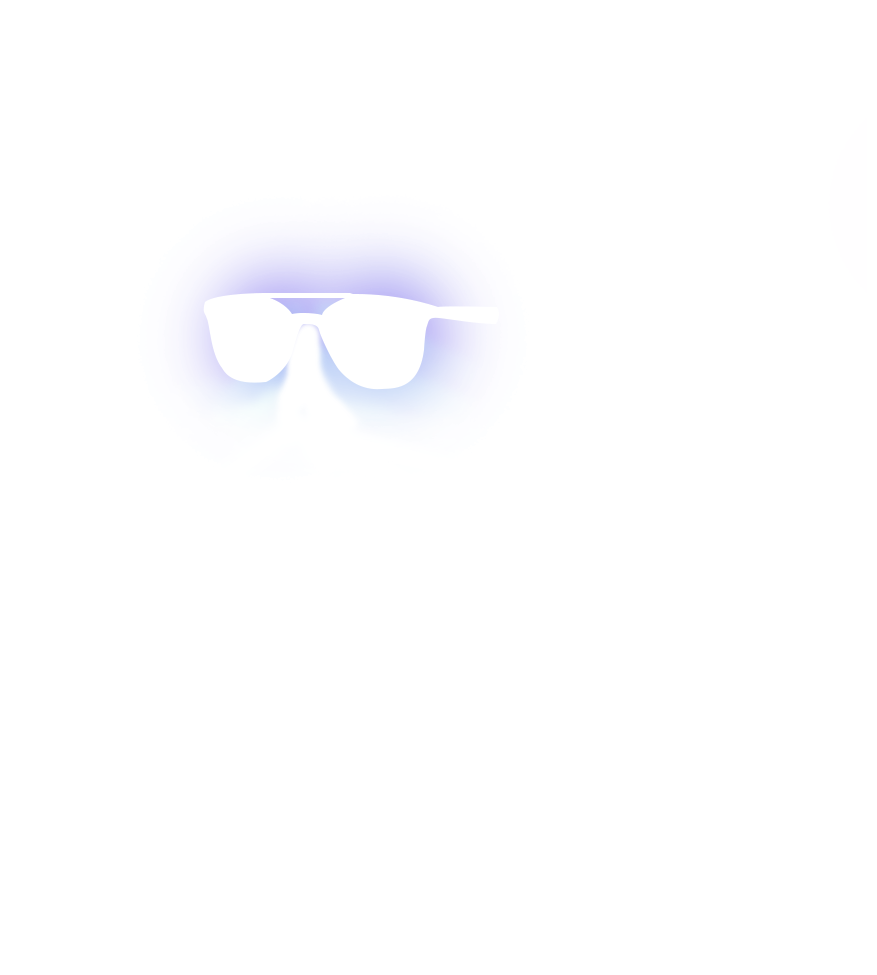
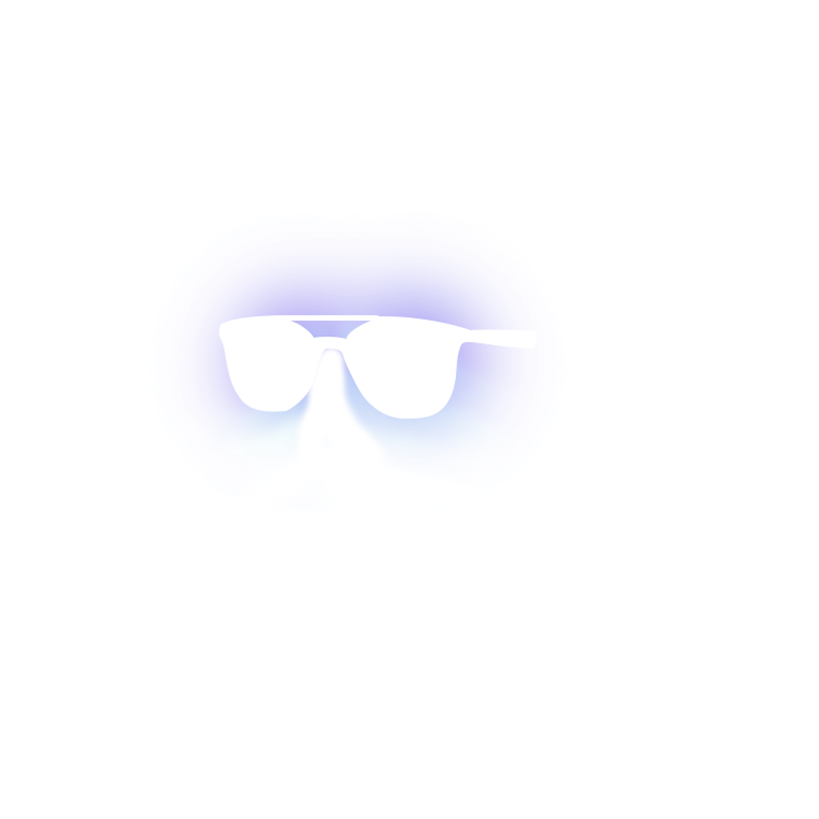
fixed horizontal align

Changed region(s): [[0.2442, 0.2442, 0.6105, 0.5495], [0.2442, 0.4274, 0.3968, 0.5495], [0.2137, 0.3358, 0.2442, 0.3663]]

diff --git a/style.css b/style.css
@@ -3,13 +3,12 @@ body {
   font-family: 'Roboto Slab', serif;
   margin: 50px;
   color: #494953;
-  background-color: #c8c8c8;
-  position: relative;
+  background-color: #FCFBFF;
 }
 
 .content{
-  max-width: 500px;
-  margin: 0 auto;
+  max-width: 650px;
+  margin: 50px auto;
 }
 
 /*Text*/
@@ -25,7 +24,7 @@ a:hover{
 h1 {
   text-transform: uppercase;
   font-weight: 400;
-  font-size: 32px;
+  font-size: 28px;
   color: #604FDD;
   margin-bottom: 20px;
   line-height: 40px;
@@ -33,14 +32,39 @@ h1 {
 
 li, p {
   font-weight: 100;
-  font-size: 18px;
-  line-height: 26px;
+  font-size: 16px;
+  line-height: 30px;
 }
 
 /*BODY ELEMENTS STYLE*/
 /*background image & animation*/
+
 .bg {
-  display: none;
+  position: relative;
+  margin: 0 auto;
+  width: 180px;
+  height: 180px;
+}
+
+.image {
+    position: absolute;
+    width: 180px;
+    height: 180px;
+}
+
+.front {
+  animation: pulse 3s infinite ease-in-out;
+  opacity: 1;
+}
+
+.back {
+  z-index: -1000;
+}
+
+@keyframes pulse {
+  0% { opacity: 0.2; }
+  50% { opacity: 1; }
+  100% { opacity: 0.2; }
 }
 
 
@@ -63,4 +87,19 @@ li, p {
   transition: 0.2s;
 }
 
-/* SCREENS*/
+/*AVATAR*/
+
+
+/* BREAKPOINTS*/
+@media only screen and (min-width: 768px) {
+    /* tablets and desktop */
+
+}
+
+@media only screen and (max-width: 767px) {
+    /* phones */
+}
+
+@media only screen and (max-width: 767px) and (orientation: portrait) {
+    /* portrait phones */
+}

diff --git a/index.html b/index.html
@@ -28,18 +28,20 @@
 <meta name="og:image" content="https://dl.dropboxusercontent.com/u/1353260/161230_fb_og_img_001.jpg">
 <meta property="og:description" content="👋 Hey! If you're looking for a UI/UX designer, then you at the right place. Check my portfolio and ping me if you would like to cooperate with me." />
 
-
   <!--dev tool
   <meta http-equiv="refresh" content="200">
   -->
 
 </head>
-
 <body>
-  <!--background images-->
+  <!--avatar images-->
+  <div class="bg">
+      <img src="asset/bgback.png" class="back image" alt="">
+      <img src="asset/bgfront.png" class="front image" alt="">
+  </div>
 
+<!--content-->
 <div class="content">
-
 
   <div class="title">
     <h1>Akos Kovacs ui/ux designer</h1>
@@ -55,7 +57,6 @@
       </p>
     </div>
 
-
     <ul class="externallinks">
       <h1>Projects and Socials</h1>
       <li><a href="http://hu.linkedin.com/in/akoskovacsme">+ LinkedIn</a></li>
@@ -65,11 +66,5 @@
       <li><a href="mailto:work@akoskovacs.me">+ Email</a></li>
     </ul>
 
-<!--
-    <div class="bg">
-        <img src="asset/bgback.jpg" class="back" alt="">
-        <img src="asset/bgfront.png" class="front" alt="">
-    </div>
--->
 </div>
 </body>
